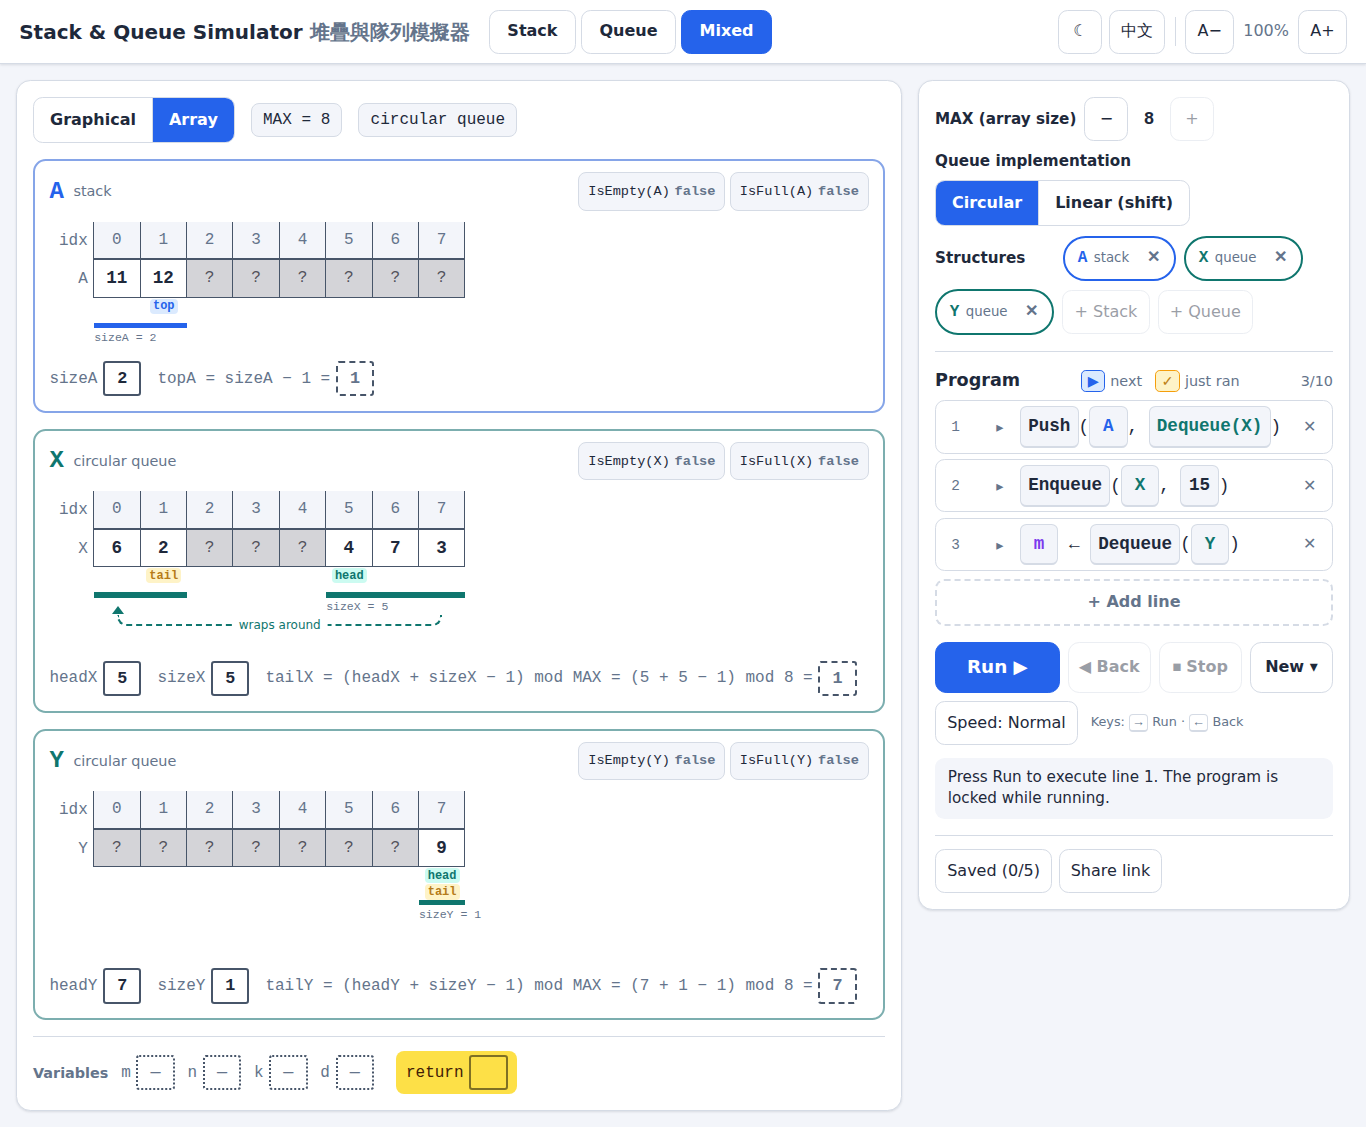
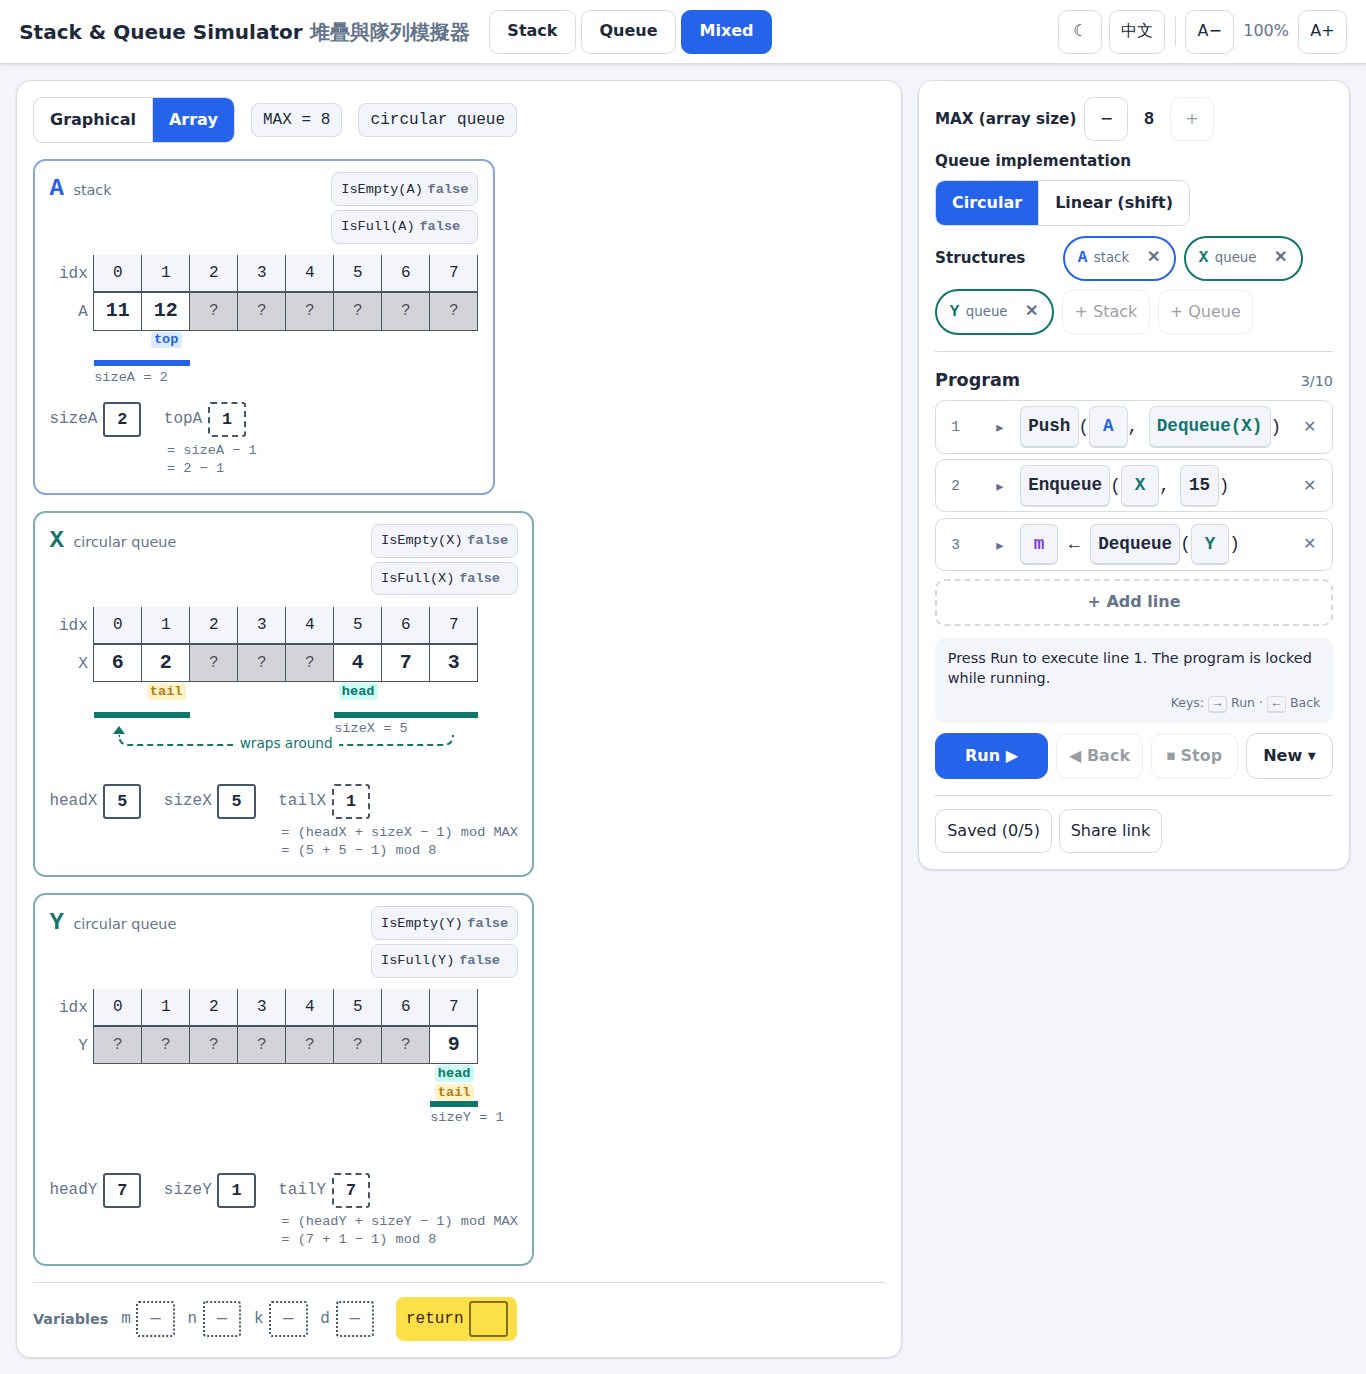
Look round 3: solid tokens, compact array cards, readable derived values
- Graphical: narrower slots, solid-colour tokens with white numbers
- IsEmpty / IsFull stacked at the card's top right
- Array cards fit their table; bigger values, darker indices, larger labels
- topX / tailX shown as name + box with the working in two small grey lines below
- Program pane: legend and speed button removed; status box above the buttons with the
  keys hint inside; Run the same size as the other buttons

Claude-Session: https://claude.ai/code/session_01MLSN2jn1NMMms2V6LVDhJF

diff --git a/index.html b/index.html
@@ -35,7 +35,7 @@
     --shadow: 0 1px 3px rgba(15, 23, 42, .08), 0 1px 2px rgba(15, 23, 42, .04);
     --mono: ui-monospace, "SFMono-Regular", "Cascadia Mono", Menlo, Consolas, monospace;
     --dur: 600ms;
-    --cw: 2.9rem;
+    --cw: 3rem;
   }
   [data-theme="dark"] {
     --bg: #0b1220;
@@ -164,7 +164,6 @@
     background: var(--bg);
   }
   .structs { display: flex; flex-wrap: wrap; gap: 1rem; align-items: flex-start; }
-  .structs.array { flex-direction: column; align-items: stretch; }
   .card {
     border: 2px solid var(--border);
     border-radius: .8rem;
@@ -174,14 +173,16 @@
   }
   .card.stack { border-color: color-mix(in srgb, var(--stack) 45%, var(--border)); }
   .card.queue { border-color: color-mix(in srgb, var(--queue) 45%, var(--border)); }
-  .chead { display: flex; flex-wrap: wrap; align-items: center; gap: .4rem .6rem; margin-bottom: .7rem; }
+  .chead { display: flex; flex-wrap: wrap; align-items: flex-start; gap: .4rem .6rem; margin-bottom: .7rem; }
+  .ctitle { display: flex; align-items: baseline; gap: .6rem; }
   .sname { font-family: var(--mono); font-size: 1.5rem; font-weight: 700; }
   .stack .sname { color: var(--stack); }
   .queue .sname { color: var(--queue); }
   .stype { color: var(--muted); font-size: .9rem; }
-  .stats { display: flex; gap: .3rem; margin-left: auto; }
+  .stats { display: flex; flex-direction: column; gap: .25rem; margin-left: auto; }
   .stat {
-    min-height: 2.4rem;
+    min-height: 2.1rem;
+    text-align: left;
     padding: .2rem .55rem;
     border: 1px solid var(--border);
     border-radius: .5rem;
@@ -216,7 +217,7 @@
     border-top: 0;
     padding: .25rem;
     gap: .2rem;
-    width: 4.2rem;
+    width: 3.3rem;
   }
   .gslot { height: 2.4rem; display: grid; place-items: stretch; border: 1px dashed color-mix(in srgb, var(--border) 70%, transparent); border-radius: .3rem; }
   .gptrs { display: flex; flex-direction: column-reverse; padding: .25rem 0; gap: .2rem; }
@@ -227,11 +228,12 @@
     border-radius: .3rem;
     font-family: var(--mono);
     font-weight: 700;
-    font-size: 1.1rem;
-    background: var(--stack-bg);
+    font-size: 1.2rem;
+    background: var(--stack);
+    color: var(--accent-ink);
     border: 2px solid var(--stack);
   }
-  .queue .tok { background: var(--queue-bg); border-color: var(--queue); }
+  .queue .tok { background: var(--queue); border-color: var(--queue); }
   /* graphical queue */
   .gqueue { display: flex; align-items: center; gap: .5rem; }
   .gqrow { display: flex; gap: .2rem; padding: .25rem; border-top: 2px solid var(--line); border-bottom: 2px solid var(--line); }
@@ -241,7 +243,7 @@
   .gqlabels span { width: 2.9rem; text-align: center; font-size: .8rem; font-weight: 600; color: var(--queue); line-height: 1.1; }
 
   /* array view */
-  .ascroll { overflow-x: auto; padding-bottom: 1rem; }
+  .ascroll { overflow-x: auto; padding-bottom: 1.2rem; }
   .agrid { display: grid; grid-template-columns: 2.8rem repeat(var(--n), var(--cw)); }
   .agrid .c {
     height: 2.4rem;
@@ -253,11 +255,11 @@
     font-weight: 600;
   }
   .agrid .lab { font-family: var(--mono); color: var(--muted); display: grid; place-items: center end; padding-right: .4rem; height: 2.4rem; }
-  .agrid .ix { color: var(--muted); font-weight: 400; background: var(--bg); }
-  .agrid .live { background: var(--cell); font-size: 1.1rem; }
+  .agrid .ix { color: var(--ink); font-weight: 400; background: var(--bg); }
+  .agrid .live { background: var(--cell); font-size: 1.25rem; font-weight: 700; }
   .agrid .stale { background: var(--grey); color: var(--grey-ink); }
   .agrid .unused { background: var(--grey); color: var(--grey-ink); font-weight: 400; }
-  .agrid .mk { min-height: 1.5rem; display: flex; flex-direction: column; align-items: center; font-size: .75rem; font-family: var(--mono); font-weight: 700; line-height: 1; gap: 1px; flex-wrap: wrap; }
+  .agrid .mk { min-height: 1.8rem; display: flex; flex-direction: column; align-items: center; font-size: .85rem; font-family: var(--mono); font-weight: 700; line-height: 1; gap: 2px; flex-wrap: wrap; }
   .mk span { padding: .1rem .2rem; border-radius: .25rem; }
   .mk .m-top, .mk .m-head { background: var(--stack-bg); color: var(--stack); }
   .queue .mk .m-head { background: var(--queue-bg); color: var(--queue); }
@@ -265,7 +267,7 @@
   .agrid .sp { height: .5rem; position: relative; }
   .agrid .sp.on::after { content: ""; position: absolute; left: 0; right: 0; top: 0; height: .35rem; background: var(--queue); }
   .stack .agrid .sp.on::after { background: var(--stack); }
-  .agrid .sp .splab { position: absolute; top: .45rem; left: 0; font-size: .72rem; font-family: var(--mono); white-space: nowrap; color: var(--muted); }
+  .agrid .sp .splab { position: absolute; top: .45rem; left: 0; font-size: .85rem; font-family: var(--mono); white-space: nowrap; color: var(--muted); }
   .agrid .wraprow { grid-column: 2 / -1; position: relative; height: 1.9rem; }
   .wrapline {
     position: absolute;
@@ -293,11 +295,13 @@
     transform: translateX(-50%);
     background: var(--panel);
     padding: 0 .4rem;
-    font-size: .75rem;
+    font-size: .85rem;
     color: var(--queue);
     white-space: nowrap;
   }
-  .avars { display: flex; flex-wrap: wrap; gap: .5rem 1rem; margin-top: .9rem; align-items: center; }
+  .avars { display: flex; flex-wrap: wrap; gap: .6rem 1.4rem; margin-top: .9rem; align-items: flex-start; }
+  .vder { display: inline-flex; flex-direction: column; gap: .3rem; }
+  .vwork { font-family: var(--mono); font-size: .85rem; color: var(--muted); line-height: 1.35; padding-left: .2rem; white-space: nowrap; }
   .vbox { display: inline-flex; align-items: center; gap: .35rem; font-family: var(--mono); }
   .vbox .vn { color: var(--muted); }
   .vv {
@@ -313,7 +317,7 @@
     font-size: 1.05rem;
     border-radius: .2rem;
   }
-  .vv.dashed { border-style: dashed; color: var(--muted); }
+  .vv.dashed { border-style: dashed; }
   .vv.unset { color: var(--muted); font-weight: 400; border-style: dotted; }
   .vv.ret { background: var(--ret); color: var(--ret-ink); border-color: color-mix(in srgb, var(--ret) 50%, #000); }
 
@@ -377,11 +381,6 @@
   .line.done .lmain { opacity: .6; }
   .line.just .lptr, .line.done .lptr { color: color-mix(in srgb, var(--hl) 75%, var(--ink)); }
   .line.done .lptr { color: var(--muted); }
-  .legend { display: flex; gap: .8rem; font-size: .85rem; color: var(--muted); }
-  .legend span { display: inline-flex; align-items: center; gap: .3rem; }
-  .legend i { font-style: normal; font-weight: 700; padding: 0 .35rem; border-radius: .3rem; border: 1px solid; }
-  .legend .lg-next { color: var(--accent); background: var(--cur-bg); border-color: var(--accent); }
-  .legend .lg-just { color: color-mix(in srgb, var(--hl) 75%, var(--ink)); background: var(--hl-bg); border-color: var(--hl); }
   .status .srow { display: flex; gap: .45rem; align-items: baseline; }
   .status .srow + .srow { margin-top: .25rem; }
   .status .sm { font-weight: 700; flex: none; width: 1rem; text-align: center; }
@@ -438,9 +437,9 @@
     font-weight: 600;
   }
   .addline:hover:not(:disabled) { border-color: var(--accent); color: var(--accent); }
-  .controls { display: grid; grid-template-columns: 1.5fr 1fr 1fr 1fr; gap: .5rem; margin-top: 1rem; }
+  .controls { display: grid; grid-template-columns: 1.3fr 1fr 1fr 1fr; gap: .5rem; margin-top: .6rem; }
   .cbtn {
-    min-height: 3.2rem;
+    min-height: 2.9rem;
     border: 1px solid var(--border);
     border-radius: .7rem;
     background: var(--panel);
@@ -449,21 +448,19 @@
     white-space: nowrap;
     padding: 0 .3rem;
   }
-  .cbtn.primary { background: var(--accent); border-color: var(--accent); color: var(--accent-ink); font-size: 1.15rem; }
+  .cbtn.primary { background: var(--accent); border-color: var(--accent); color: var(--accent-ink); }
   .status {
     margin-top: .8rem;
     padding: .6rem .8rem;
     border-radius: .6rem;
     background: var(--bg);
-    font-size: .95rem;
-    min-height: 2.8rem;
+    font-size: .9rem;
   }
   .status.ok { background: var(--ok-bg); }
   .status.err { background: var(--err-bg); border: 1px solid var(--err); }
   .status .rt { font-family: var(--mono); font-weight: 700; color: var(--err); }
   .status .hint { display: block; margin-top: .3rem; }
-  .crow2 { display: flex; flex-wrap: wrap; align-items: center; gap: .4rem .8rem; margin-top: .5rem; }
-  .keys { font-size: .8rem; color: var(--muted); }
+  .status .keys { margin-top: .35rem; text-align: right; font-size: .78rem; color: var(--muted); }
   .rfoot { display: flex; flex-wrap: wrap; gap: .4rem; margin-top: 1rem; padding-top: .8rem; border-top: 1px solid var(--border); }
   kbd { font-family: var(--mono); border: 1px solid var(--border); border-bottom-width: 2px; border-radius: .25rem; padding: 0 .3rem; }
 
@@ -523,6 +520,12 @@
     0%, 30% { box-shadow: 0 0 0 .3rem var(--hl); background-color: var(--hl-bg); }
     100% { box-shadow: 0 0 0 .3rem transparent; }
   }
+  /* solid tokens keep their fill (white text) and only get the ring */
+  .tok.flash { animation-name: flashring; }
+  @keyframes flashring {
+    0%, 30% { box-shadow: 0 0 0 .3rem var(--hl); }
+    100% { box-shadow: 0 0 0 .3rem transparent; }
+  }
   .ghost {
     position: fixed;
     z-index: 50;
@@ -539,7 +542,7 @@
     box-shadow: 0 6px 16px rgba(0, 0, 0, .25);
   }
   @media (prefers-reduced-motion: reduce) {
-    .flash, .stat.alert { animation: none; }
+    .flash, .tok.flash, .stat.alert { animation: none; }
   }
 </style>
 </head>
@@ -612,7 +615,6 @@ const I18N = {
     justStep: 'Just ran line {n}, step {s} of {t}:',
     nextLine: 'Next: line {n}.',
     nextStep: 'Next: step {s} of line {n}.',
-    legendNext: 'next', legendJust: 'just ran',
     stDone: 'Program finished. Back to review, Stop to edit, New for another demo.',
     locked: 'Locked while running — press Stop to edit.',
     mNumber: 'Number', mVariable: 'Variable', mReturned: 'Value returned by', mOp: 'Operation',
@@ -625,7 +627,6 @@ const I18N = {
     hintEmpty: 'Check IsEmpty({X}) first to avoid this error.',
     hintVar: 'Assign a value to {v} first, e.g. {v} ← {op}(…).',
     rtLabel: 'runtime error', atLine: 'line {n}',
-    speed: 'Speed', slow: 'Slow', normal: 'Normal', fast: 'Fast',
     zoomIn: 'Zoom in', zoomOut: 'Zoom out', dark: 'Dark theme', light: 'Light theme', langBtn: '中文',
     saves: 'Saved', share: 'Share link',
     savedTitle: 'Saved programs', saveCurrent: 'Save current demo', load: 'Load', del: 'Delete', close: 'Close',
@@ -661,7 +662,6 @@ const I18N = {
     justStep: '剛執行第 {n} 行第 {s} / {t} 步：',
     nextLine: '下一步：第 {n} 行。',
     nextStep: '下一步：第 {n} 行第 {s} 步。',
-    legendNext: '下一步', legendJust: '剛執行',
     stDone: '程序完成。按「上一步」重溫，「停止」修改程序，「新示範」產生另一個示範。',
     locked: '執行中已鎖定 — 按「停止」以修改。',
     mNumber: '數值', mVariable: '變數', mReturned: '以下函數的回傳值', mOp: '操作',
@@ -674,7 +674,6 @@ const I18N = {
     hintEmpty: '先檢查 IsEmpty({X}) 以避免這個錯誤。',
     hintVar: '先為 {v} 賦值，例如 {v} ← {op}(…)。',
     rtLabel: 'runtime error（執行時錯誤）', atLine: '第 {n} 行',
-    speed: '速度', slow: '慢', normal: '正常', fast: '快',
     zoomIn: '放大', zoomOut: '縮小', dark: '深色主題', light: '淺色主題', langBtn: 'EN',
     saves: '已儲存', share: '分享連結',
     savedTitle: '已儲存的程序', saveCurrent: '儲存目前示範', load: '載入', del: '刪除', close: '關閉',
@@ -1037,7 +1036,6 @@ function restore() {
     if (I18N[s.lang]) app.settings.lang = s.lang;
     if (['light', 'dark'].includes(s.theme)) app.settings.theme = s.theme;
     if (typeof s.zoom === 'number' && s.zoom >= 0.7 && s.zoom <= 1.8) app.settings.zoom = s.zoom;
-    if (SPEEDS[s.speed]) app.settings.speed = s.speed;
     if (['graphical', 'array'].includes(s.view)) app.settings.view = s.view;
   }
   if (saved && TABS.includes(saved.tab)) app.tab = saved.tab;
@@ -1187,7 +1185,7 @@ function cardHTML(s, st, d, view, err, keys) {
   const X = s.name, M = d.max;
   const typeLabel = s.type === 'stack' ? t('stack') : t(d.impl);
   let h = `<div class="card ${s.type}">
-    <div class="chead"><span class="sname">${X}</span><span class="stype">${esc(typeLabel)}</span>${statusBoxes(X, st, M, err)}</div>
+    <div class="chead"><span class="ctitle"><span class="sname">${X}</span><span class="stype">${esc(typeLabel)}</span></span>${statusBoxes(X, st, M, err)}</div>
     ${statusExplain(X, st, M)}`;
   const order = liveOrder(s, st, d);
   if (view === 'graphical') {
@@ -1237,14 +1235,16 @@ function arrayHTML(s, st, d) {
   }
   const wrapped = circ && st.size > 0 && st.head + st.size > M;
   const wrap = circ ? `<div></div><div class="wraprow">${wrapped ? `<div class="wrapline"><span>${esc(t('wraps'))}</span></div>` : ''}</div>` : '';
+  // derived value: name and box like the other variables, the working underneath
+  const der = (name, v, formula, subst) => `<span class="vder"><span class="vbox"><span class="vn">${name}</span><span class="vv dashed" data-ref="der:${name}">${v}</span></span><span class="vwork">= ${formula}<br>= ${subst}</span></span>`;
   let vars = `<span class="vbox"><span class="vn">size${X}</span><span class="vv" data-ref="var:size${X}">${st.size}</span></span>`;
   if (s.type === 'stack') {
-    vars += `<span class="vbox"><span class="vn">top${X} = size${X} − 1 =</span><span class="vv dashed" data-ref="der:top${X}">${minus(st.size - 1)}</span></span>`;
+    vars += der('top' + X, minus(st.size - 1), `size${X} − 1`, `${st.size} − 1`);
   } else if (circ) {
     vars = `<span class="vbox"><span class="vn">head${X}</span><span class="vv" data-ref="var:head${X}">${st.head}</span></span>` + vars;
-    vars += `<span class="vbox"><span class="vn">tail${X} = (head${X} + size${X} − 1) mod MAX = (${st.head} + ${st.size} − 1) mod ${M} =</span><span class="vv dashed" data-ref="der:tail${X}">${tail}</span></span>`;
+    vars += der('tail' + X, tail, `(head${X} + size${X} − 1) mod MAX`, `(${st.head} + ${st.size} − 1) mod ${M}`);
   } else {
-    vars += `<span class="vbox"><span class="vn">tail${X} = size${X} − 1 =</span><span class="vv dashed" data-ref="der:tail${X}">${minus(tail)}</span></span>`;
+    vars += der('tail' + X, minus(tail), `size${X} − 1`, `${st.size} − 1`);
   }
   return `<div class="ascroll"><div class="agrid" style="--n:${M}">${idx}${val}${mk}${sp}${wrap}</div></div>
     <div class="avars">${vars}</div>`;
@@ -1292,7 +1292,6 @@ function renderRight() {
   </div>`;
 
   h += `<div class="phead"><h2>${esc(t('program'))}</h2>
-    <div class="legend"><span><i class="lg-next">▶</i>${esc(t('legendNext'))}</span><span><i class="lg-just">✓</i>${esc(t('legendJust'))}</span></div>
     <span>${d.program.length}/${MAXLINES}</span></div><ol class="lines">`;
   const done = runDone(R, d);
   const err = runError(R);
@@ -1322,17 +1321,13 @@ function renderRight() {
   });
   h += `</ol>
     <button class="addline" data-act="addline" ${locked || d.program.length >= MAXLINES ? 'disabled' : ''}>${esc(t('addLine'))}</button>
+    ${statusHTML(tb)}
     <div class="controls">
       <button class="cbtn primary" data-act="run" ${!d.program.length || done ? 'disabled' : ''}>${esc(t('run'))}</button>
       <button class="cbtn" data-act="back" ${!R || !R.hist.length ? 'disabled' : ''}>${esc(t('back'))}</button>
       <button class="cbtn" data-act="stop" ${!R ? 'disabled' : ''} title="${esc(t('stopTitle'))}">${esc(t('stop'))}</button>
       <button class="cbtn" data-act="newmenu">${esc(t('newBtn'))} ▾</button>
     </div>
-    <div class="crow2">
-      <button class="tbtn" data-act="speed" title="${esc(t('speed'))}">${esc(t('speed'))}: ${esc(t(app.settings.speed))}</button>
-      <span class="keys">${t('keys')}</span>
-    </div>
-    ${statusHTML(tb)}
     <div class="rfoot">
       <button class="tbtn" data-act="saves">${esc(t('saves'))} (${app.saves.length}/${MAXSAVES})</button>
       <button class="tbtn" data-act="share">${esc(t('share'))}</button>
@@ -1385,6 +1380,9 @@ function listingHTML(tb, L) {
 }
 
 function statusHTML(tb) {
+  return statusBox(tb).replace(/<\/div>$/, `<div class="keys">${t('keys')}</div></div>`);
+}
+function statusBox(tb) {
   const d = tb.demo, R = tb.run;
   if (app.notice) {
     const n = app.notice;
@@ -1742,7 +1740,6 @@ document.addEventListener('click', e => {
     case 'view': app.settings.view = el.dataset.v; update(null); break;
     case 'lang': app.settings.lang = app.settings.lang === 'en' ? 'zh' : 'en'; update(null); break;
     case 'theme': app.settings.theme = app.settings.theme === 'light' ? 'dark' : 'light'; update(null); break;
-    case 'speed': { const k = Object.keys(SPEEDS); app.settings.speed = k[(k.indexOf(app.settings.speed) + 1) % k.length]; update(null); break; }
     case 'zoom': app.settings.zoom = Math.round(Math.min(1.8, Math.max(0.7, app.settings.zoom + 0.1 * +el.dataset.d)) * 10) / 10; update(null); break;
     case 'stat': app.open[el.dataset.key] = !app.open[el.dataset.key]; update(null); break;
     case 'max':

diff --git a/CLAUDE.md b/CLAUDE.md
@@ -90,7 +90,7 @@ or tablet (not phone).
     `A[i] ← A[i + 1]`, `sizeA ← sizeA − 1`, `return temp`
   - Linear dequeue: each loop pass is its own Run step with `i` shown, so the
     shifting cost is obvious.
-- Changes are animated; animation speed control (slow / normal / fast).
+- Changes are animated at one fixed speed (no speed control; the teacher is happy with it).
 
 ### UI
 - English default, Traditional Chinese (HK) option — UI text only; pseudocode stays
@@ -119,7 +119,17 @@ or tablet (not phone).
 ### Layout (teacher feedback, round 2)
 - Title is always bilingual: "Stack & Queue Simulator 堆疊與隊列模擬器".
 - Header (top right): theme and language first, then zoom.
-- Speed button sits under Run/Back/Stop/New; Saved and Share link at the bottom of the
+- Saved and Share link at the bottom of the
   program pane.
 - Program pane is narrow (`clamp(21rem, 100vw − 36rem, 27rem)`); the structures pane gets
   the rest so 8 queue cells fit. Single column below 960px.
+
+### Look (teacher feedback, round 3)
+- Graphical items are solid-colour tokens with white numbers; slots are narrow (3.3rem).
+- `IsEmpty` / `IsFull` boxes are stacked one above the other at the card's top right.
+- Array cards fit their table (not full width); bigger values, darker indices, larger labels.
+- Derived values read like the other variables (`tailX [3]`), with the working in small grey
+  lines underneath (`= (headX + sizeX − 1) mod MAX`, `= (1 + 3 − 1) mod 5`).
+- No line-marker legend (it looked like buttons); the status box uses the same ▶ / ✓
+  symbols in words. Status box sits between "+ Add line" and the buttons, with the keys hint
+  inside it. Run is the same size as Back / Stop / New (still blue).
